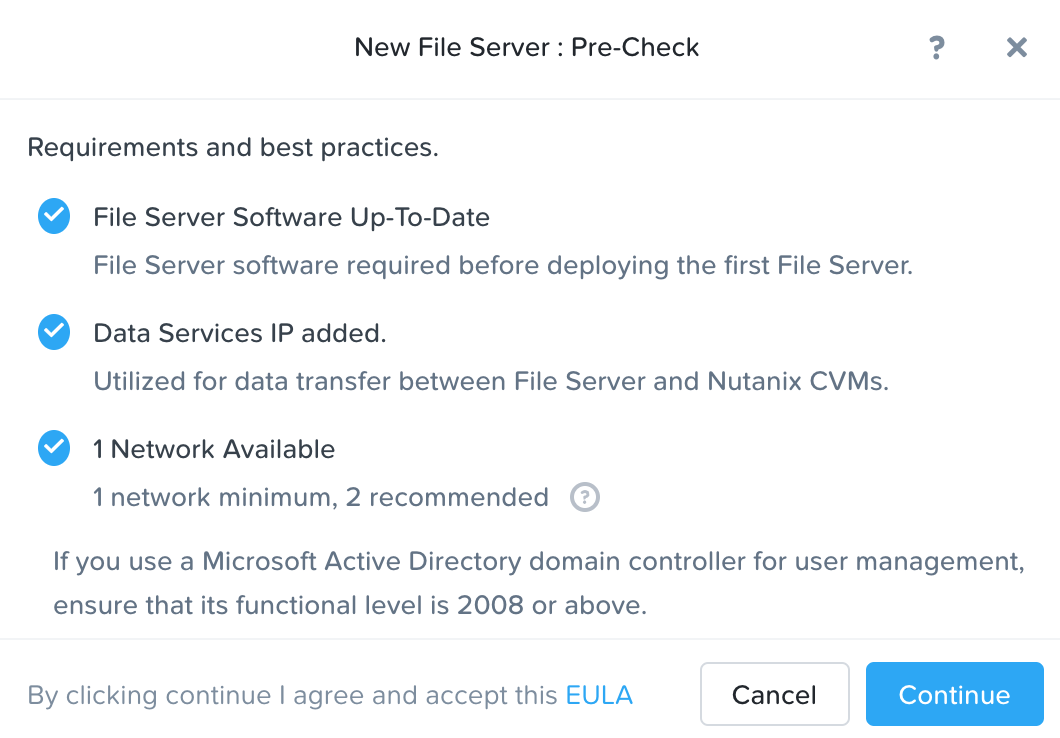
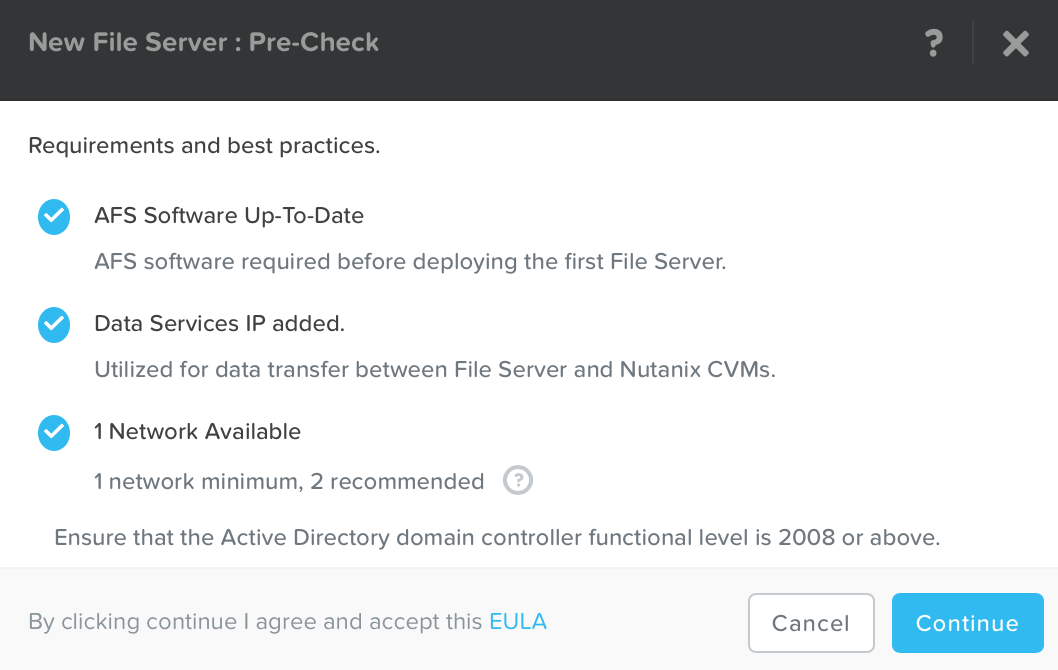
Image updates

diff --git a/files_deploy/files_deploy.rst b/files_deploy/files_deploy.rst
@@ -18,11 +18,11 @@ Deploy Files
 
 In **Prism > File Server**, click **+ File Server**.
 
-.. figure:: images/
+.. figure:: images/files_deploy_001
 
 The Files 3.1.0.1 package has already been uploaded and the Data Services IP has been configured as 10.21.XXX.38. Click **Continue**.
 
-.. figure:: images/
+.. figure:: images/files_deploy_002
 
 Fill out the following fields and click **Next**:
 
@@ -30,7 +30,7 @@ Fill out the following fields and click **Next**:
   - **Domain** - ntnxlab.local
   - **File Server Size** - 1 TiB
 
-.. figure:: images/
+.. figure:: images/files_deploy_003
 
 .. note:: Clicking **Custom Configuration** will allow you to alter the scale up and scale out sizing of the Files VMs based on User and Throughput targets.
 
@@ -40,15 +40,15 @@ Select the **Primary - Managed** VLAN for the Client Network. Specify your clust
 
   In order for the Files cluster to successfully find and join the **NTNXLAB.local** domain it is critical that the **DNS Resolver IP** is set to the **AutoDC** VM IP **FOR YOUR CLUSTER**. By default, this field is set to the primary **Name Server** IP configured for the Nutanix cluster, **this value is incorrect and will not work.**
 
-.. figure:: images/
+.. figure:: images/files_deploy_004
 
 Select the **Secondary - Managed** VLAN for the Storage Network. Click **Next**.
 
-.. figure:: images/
+.. figure:: images/files_deploy_005
 
  .. note::
 
-  It is typically desirable to deploy Files with dedicated networks for client and storage. By design, however, Files does not allow client connections from the storage network in this configuration. As the Hosted POC environment only provides 2 subnets per cluster, a single network deployment of Files provides the most flexibility to connect to shares/exports via the Primary or Secondary networks.
+  It is typically desirable to deploy Files with dedicated networks for client and storage. By design, however, Files does not allow client connections from the storage network in this configuration.
 
 Fill out the following fields and click **Next**:
 
@@ -59,21 +59,22 @@ Fill out the following fields and click **Next**:
   - Select **Use NFS Protocol**
   - **User Management and Authentication** - Unmanaged
 
-.. figure:: images/
+.. figure:: images/files_deploy_006
 
 .. note:: Similar to NFSv3, in Unmanaged mode, users are only identified by UID/GID. NFS connections will still require an NFSv4 capable client.
 
 Click **Next**.
 
-.. figure:: images/
+Fill out the following fields and click **Create**:
 
-Review the configuration and click **Create**.
+  - Select **Create a Protection Domain and a default schedule (highly recommended)**
+  - **PROTECTION DOMAIN NAME** - NTNX-JNC-Files
 
-.. figure:: images/
+.. figure:: images/files_deploy_007
 
 Monitor deployment progress in **Prism > Tasks**.
 
-.. figure:: images/
+.. figure:: images/files_deploy_008
 
 .. note::
 
@@ -83,7 +84,7 @@ Upon completion, select the **AFS** server and click **Protect**.
 
 Observe the default Self Service Restore schedules, this feature controls the snapshot schedule for Windows' Previous Versions functionality. Supporting Previous Versions allows end users to roll back changes to files without engaging storage or backup administrators. Note these local snapshots do not protect the file server cluster from local failures and that replication of the entire file server cluster can be performed to remote Nutanix clusters. Click **Close**.
 
-.. figure:: images/
+.. figure:: images/files_deploy_009
 
 Takeaways
 +++++++++
@@ -91,11 +92,4 @@ Takeaways
   - Nutanix provides file services suitable for storing user profiles and application data via SMB or NFSv4.
   - AFS is capable of scaling up and out to meet workload requirements.
   - AFS has data protection built-in by leveraging native snapshots and replication. AFS 3.0 will also feature integration with 3rd party backup solutions.
-  - AFS can be deployed on the same Nutanix cluster as your virtual desktops, resulting in better utilization of storage capacity and the elimination of an additional storage silo.
-  - Supporting mixed workloads (e.g. virtual desktops and file services) is further enhanced by Nutanix's ability to mix different node configurations within a single cluster, such as:
-
-    - Mixing storage heavy and compute heavy nodes
-    - Expanding a cluster with Storage Only nodes to increase storage capacity without incurring additional virtualization licensing costs
-    - Mixing different generations of hardware (e.g. NX-3460-G6 + NX-6235-G5)
-    - Mixing all flash nodes with hybrid nodes
-    - Mixing NVIDIA GPU nodes with non-GPU nodes
+  

diff --git a/files_smb_share/files_smb_share.rst b/files_smb_share/files_smb_share.rst
@@ -1,7 +1,7 @@
-.. _files_smb_home_share:
+.. _files_smb_share:
 
 ----------------------------
-Files: Create SMB Home Share
+Files: Create SMB Share
 ----------------------------
 
 Overview
@@ -18,15 +18,15 @@ Configuring SMB Home Share
 
 In **Prism > File Server**, click **+ Share/Export**. Fill out the following fields and click **Next**:
 
-  - **Name** - home
+  - **Name** - marketing
   - **Protocol** - SMB
-  - **Share/Export Type** - Home directory and User Profiles
+  - **Share/Export Type** - General Purpose Share
 
-.. figure:: images/
+.. figure:: images/files_smb_001
 
 Select **Enable Access Based Enumeration** and **Self Service Restore** and click **Create**.
 
-.. figure:: images/
+.. figure:: images/files_smb_002
 
 Connect to SMB Share
 ++++++++++++++++++++
@@ -69,7 +69,7 @@ Connecting to SMB Share
   You can use any Windows VM joined to the ntnxlab.local domain to complete the following steps.
 
 
-Log into your Windows VM console, and open ``\\*intials*-Files.ntnxlab.local`` in **File Explorer**.
+Log into your Windows VM console, and open ``\\*intials*-Files.ntnxlab.local\marketing`` in **File Explorer**.
 
 Right-click **home > Properties**.
 
@@ -102,38 +102,11 @@ Click **OK > OK > OK**.
 
 .. figure:: images/
 
-In your Windows VM console, open **Control Panel > Administrative Tools > Active Directory Users & Computers**.
-
-Under **ntnxlab.local > Users**, right-click **devuser01 > Properties**.
-
-.. figure:: images/
-
-Click **Profile**. Under **Home folder**, select **Connect** and specify ``\\*intials*-Files.ntnxlab.local\home\%username%`` as the path. Click **OK**. Repeat for the following user accounts: **devuser02**, **devuser03**, **devuser04**.
-
-.. figure:: images/
-
-In **Prism > File Server > Share > home**, click **+ Add Quota Policy**. Fill out the following fields and click **Save**:
+In **Prism > File Server > Share > marketing**, click **+ Add Quota Policy**. Fill out the following fields and click **Save**:
 
   - Select **Groups**
   - **Users or Group** - SSP Developers
   - **Quota** - 10 GiB
   - **Enforcement Type** - Hard Limit
 
-.. figure:: images/
-
-You can validate your file share configuration by logging into any domain-joined Windows VM as **NTNXLAB\\devuser01**.
-
-Takeaways
-+++++++++
-
-  - Nutanix provides file services suitable for storing user profiles and application data via SMB or NFSv4.
-  - AFS is capable of scaling up and out to meet workload requirements.
-  - AFS has data protection built-in by leveraging native snapshots and replication. AFS 3.0 will also feature integration with 3rd party backup solutions.
-  - AFS can be deployed on the same Nutanix cluster as your virtual desktops, resulting in better utilization of storage capacity and the elimination of an additional storage silo.
-  - Supporting mixed workloads (e.g. virtual desktops and file services) is further enhanced by Nutanix's ability to mix different node configurations within a single cluster, such as:
-
-    - Mixing storage heavy and compute heavy nodes
-    - Expanding a cluster with Storage Only nodes to increase storage capacity without incurring additional virtualization licensing costs
-    - Mixing different generations of hardware (e.g. NX-3460-G6 + NX-6235-G5)
-    - Mixing all flash nodes with hybrid nodes
-    - Mixing NVIDIA GPU nodes with non-GPU nodes
+.. figure:: images/files_smb_003

diff --git a/files_nfs_export/files_nfs_export.rst b/files_nfs_export/files_nfs_export.rst
@@ -22,7 +22,7 @@ In **Prism > File Server**, click **+ Share/Export**. Fill out the following fie
   - **Protocol** - NFS
   - **Share/Export Type** - Non-Sharded Directories
 
-.. figure:: images/
+.. figure:: images/files_nfs_001
 
 Fill out the following fields and click **Create**:
 
@@ -31,7 +31,7 @@ Fill out the following fields and click **Create**:
   - Select **+ Add Client Exceptions**
   - **Clients with Read-Write Access** - *<Cluster IP Range>* (ex. 10.21.XX.*)
 
-.. figure:: images/
+.. figure:: images/files_nfs_002
 
 Connect to NFS Export
 +++++++++++++++++++++
@@ -107,18 +107,3 @@ The following command will add 100 2MB files filled with random data to ``/afsmn
 Return to **Prism > File Server > Share > logs** to monitor performance and usage.
 
 .. figure:: images/
-
-Takeaways
-+++++++++
-
-  - Nutanix provides file services suitable for storing user profiles and application data via SMB or NFSv4.
-  - AFS is capable of scaling up and out to meet workload requirements.
-  - AFS has data protection built-in by leveraging native snapshots and replication. Files 3.1 will also feature integration with 3rd party backup solutions.
-  - AFS can be deployed on the same Nutanix cluster as your virtual desktops, resulting in better utilization of storage capacity and the elimination of an additional storage silo.
-  - Supporting mixed workloads (e.g. virtual desktops and file services) is further enhanced by Nutanix's ability to mix different node configurations within a single cluster, such as:
-
-    - Mixing storage heavy and compute heavy nodes
-    - Expanding a cluster with Storage Only nodes to increase storage capacity without incurring additional virtualization licensing costs
-    - Mixing different generations of hardware (e.g. NX-3460-G6 + NX-6235-G5)
-    - Mixing all flash nodes with hybrid nodes
-    - Mixing NVIDIA GPU nodes with non-GPU nodes

diff --git a/index.rst b/index.rst
@@ -7,7 +7,7 @@
   :hidden:
 
   files_deploy/files_deploy
-  files_smb_home_share/files_smb_home_share
+  files_smb_share/files_smb_share
   files_nfs_export/files_nfs_export
 
 .. toctree::
